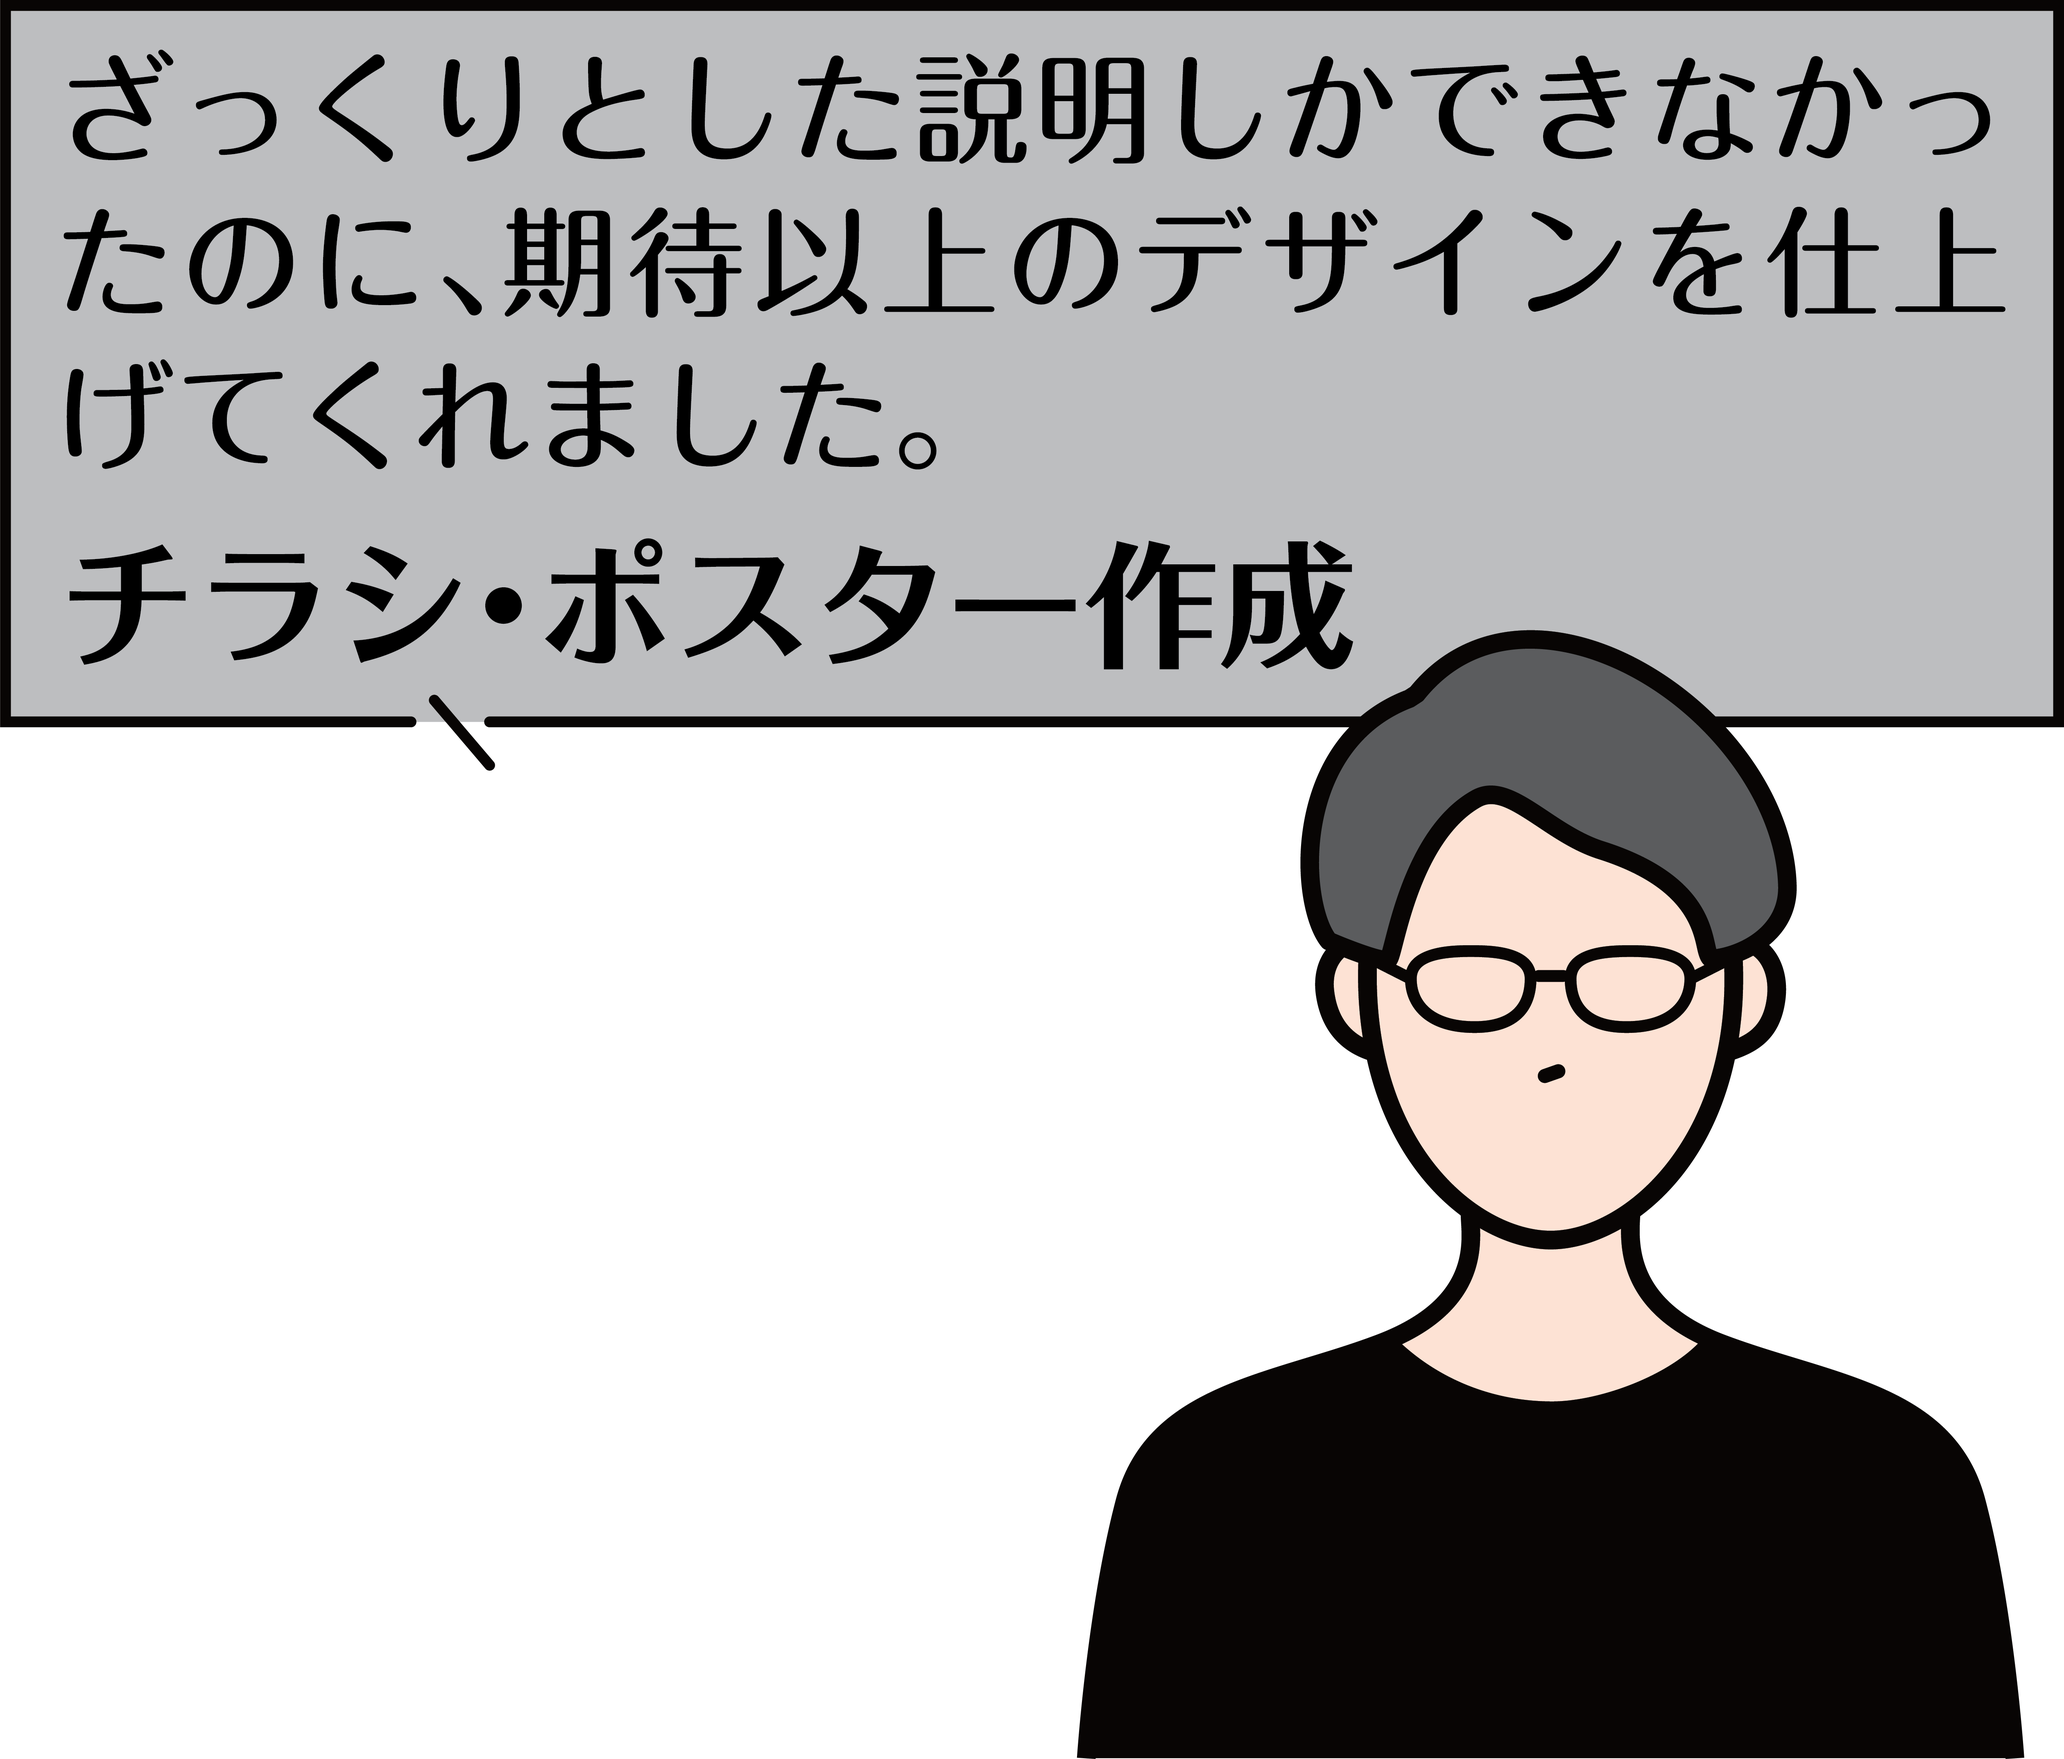
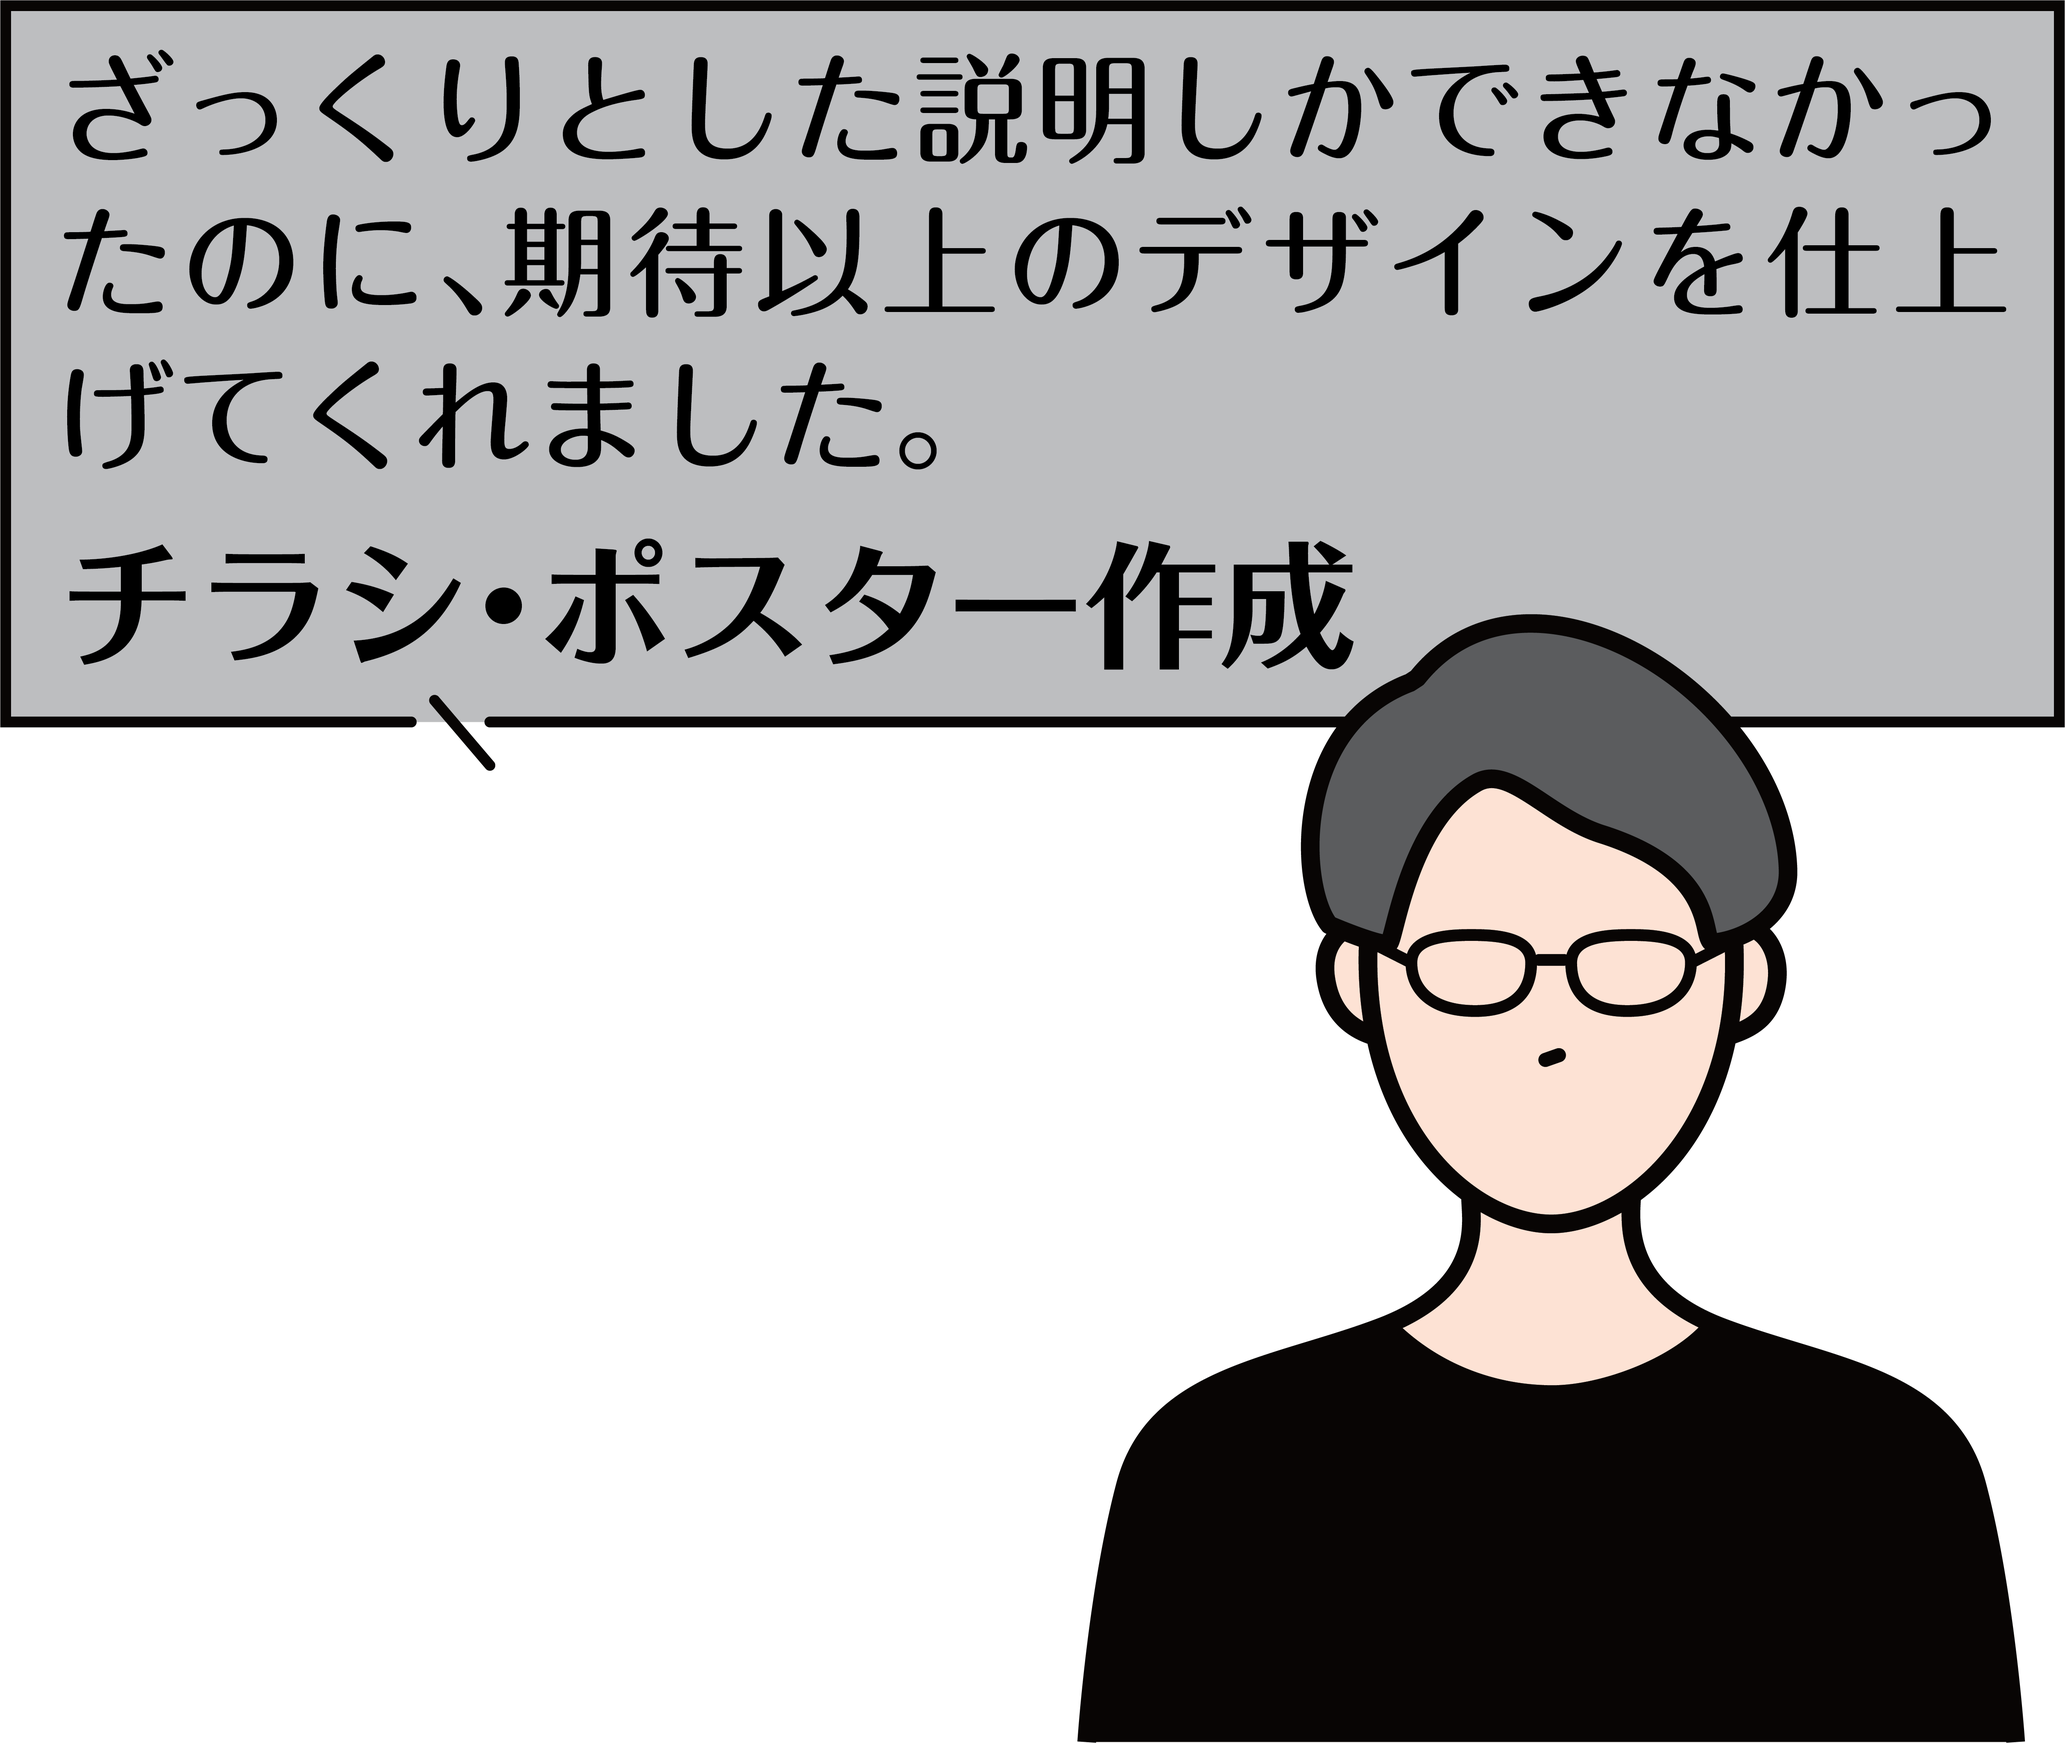
Update people and font idea description

diff --git a/resources/js/Pages/Homepage/Homepage.jsx b/resources/js/Pages/Homepage/Homepage.jsx
@@ -799,7 +799,7 @@ const Homepage = () => {
                                                 <div ref={ideaDescRef} className="w-full">
                                                     {itemReference.desc.split('|||').map((item, index) => {
                                                         return (
-                                                            <div key={`${item}${index}`} className="w-full flex items-center" style={{ height: `${ideaDescHeight > 0 ? `${ideaDescHeight}px` :  `auto`}`, fontSize: '1vw', fontStyle: "'a-otfud-shin-go-pr6n', sans-serif", backgroundColor: '#403c3c', padding: '0.1vw 2vw 0.1vw 0.1vw', margin: '0.5vw 0', clipPath: 'polygon(0% 0%, 100% 0%, 97% 100%, 0% 100%)' }}>
+                                                            <div key={`${item}${index}`} className="w-full flex items-center" style={{ height: `${ideaDescHeight > 0 ? `${ideaDescHeight}px` :  `auto`}`, fontSize: '1vw', fontStyle: "'a-otf-ud新ゴpr6n-l', sans-serif", backgroundColor: '#403c3c', padding: '0.1vw 2vw 0.1vw 0.1vw', margin: '0.5vw 0', clipPath: 'polygon(0% 0%, 100% 0%, 97% 100%, 0% 100%)' }}>
                                                                 <div className="w-fit h-fit">
                                                                     {item.split('*').map((item, index) => {
                             

diff --git a/resources/js/Pages/Homepage/Homepage.module.css b/resources/js/Pages/Homepage/Homepage.module.css
@@ -40,6 +40,13 @@
     font-style: normal;
 }
 
+@font-face {
+    font-family: 'a-otf-ud新ゴpr6n-l';
+    src: url('/assets/homepage/fonts/A-OTF UD新ゴ Pr6N L.ttf') format('truetype');
+    font-weight: normal;
+    font-style: normal;
+}
+
 .imageSlide {
     position: absolute;
     animation: slowMoveImage 8s ease-in-out alternate;
